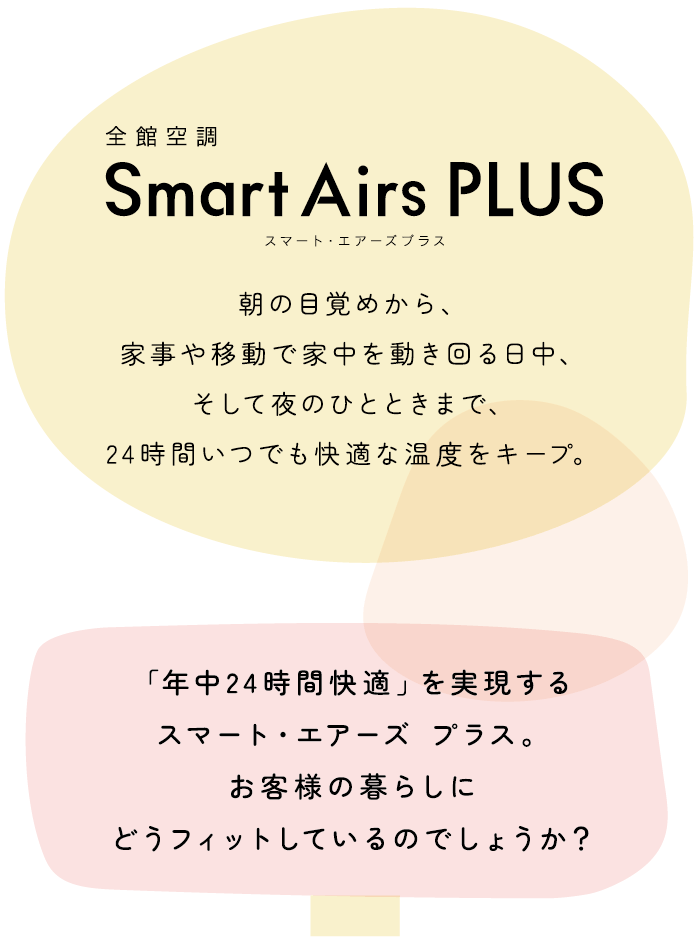
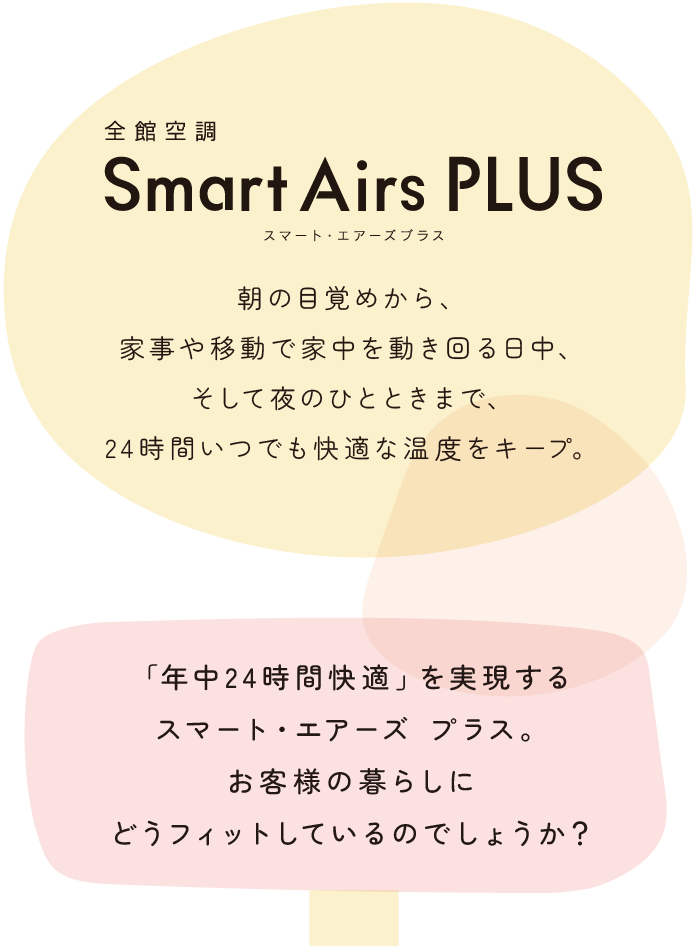
SP版に下向き矢印を追加・スタイル調整
- voice__innerに下向き矢印画像を追加
- 矢印のスタイル調整（position: absolute, mix-blend-mode: multiply）
- CSSバージョン更新

🤖 Generated with [Claude Code](https://claude.com/claude-code)

diff --git a/index.html b/index.html
@@ -20,7 +20,7 @@
   <link
     href="https://fonts.googleapis.com/css2?family=Noto+Sans+JP:wght@400;500;700&family=Zen+Maru+Gothic:wght@300;400;500&display=swap"
     rel="stylesheet">
-  <link rel="stylesheet" href="assets/css/style.css?v=20260108">
+  <link rel="stylesheet" href="assets/css/style.css?v=20260109b">
   <script src="/assets/js/ad_cd_track.min.js"></script>
 </head>
 
@@ -106,7 +106,9 @@
     <!-- Owner's Voice -->
     <section class="voice">
       <div class="voice__inner">
+        <img src="assets/img/sp/arrow_down.png" alt="" class="voice__arrow--sp">
         <img src="assets/img/sp/instagram_sp.png" alt="Owner's Voice - オーナー様の声" class="voice__img voice__img--sp">
+
         <img src="assets/img/pc/arrow_pc.png" alt="" class="voice__arrow voice__arrow--pc">
         <img src="assets/img/pc/instagram_title_pc.png" alt="Owner's Voice - オーナー様の声"
           class="voice__title-img voice__title-img--pc">
@@ -389,10 +391,10 @@
   <footer class="footer">
     <div class="footer__bottom">
       <div class="footer__nav">
-        <a href="#" class="footer__nav-link">個人情報の取扱いについて</a>
-        <a href="#" class="footer__nav-link">ご利用について</a>
-        <a href="#" class="footer__nav-link">サイトマップ</a>
-        <a href="#" class="footer__nav-link">お問い合わせ</a>
+        <a href="https://www.toyotahome.co.jp/policy/" class="footer__nav-link" target="_blank">個人情報の取扱いについて</a>
+        <a href="https://www.toyotahome.co.jp/terms/" class="footer__nav-link" target="_blank">ご利用について</a>
+        <a href="https://www.toyotahome.co.jp/sitemap/" class="footer__nav-link" target="_blank">サイトマップ</a>
+        <a href="https://www.toyotahome.co.jp/inquiry_list/" class="footer__nav-link" target="_blank">お問い合わせ</a>
       </div>
       <p class="footer__copyright">Copyright ©TOYOTA HOUSING CORPORATION, All Rights Reserved.</p>
     </div>

diff --git a/assets/css/style.css b/assets/css/style.css
@@ -444,6 +444,7 @@ ul, ol {
 
 .voice__inner {
   text-align: center;
+  position: relative;
 }
 
 .voice__img {
@@ -470,6 +471,14 @@ ul, ol {
 
 .voice__arrow--pc {
   display: none;
+}
+
+.voice__arrow--sp {
+  display: block;
+  position: absolute;
+  top: 0;
+  z-index: 5;
+  mix-blend-mode: multiply;
 }
 
 /* ============================================
@@ -967,6 +976,10 @@ ul, ol {
   }
 
   .voice__img--sp {
+    display: none;
+  }
+
+  .about__arrow-down--sp {
     display: none;
   }
 
